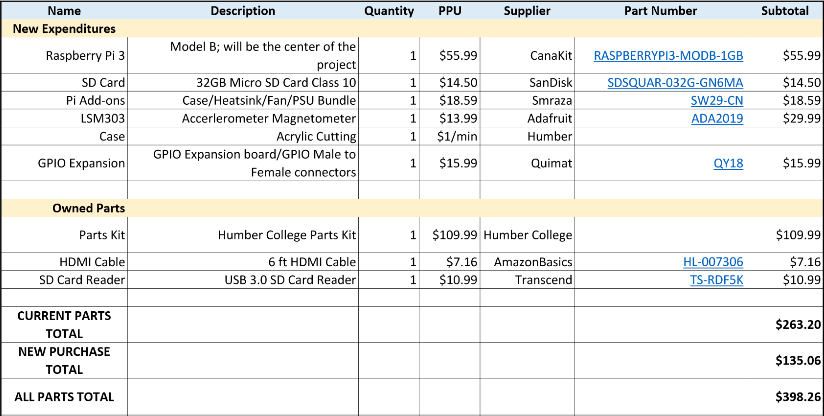
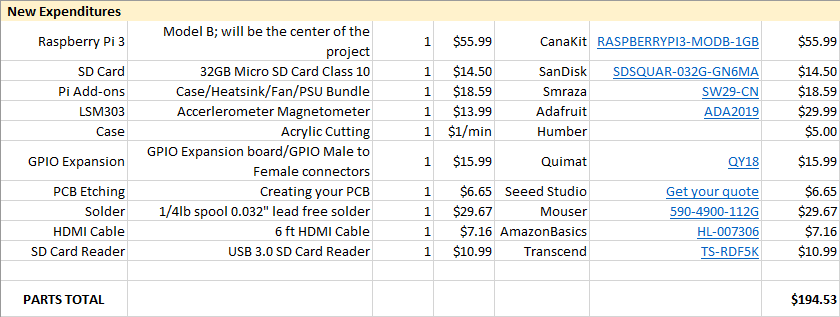
chabess

diff --git a/README.md b/README.md
@@ -34,9 +34,16 @@ which can then be used for real world applications.
 
 //system diagram to go here.
 
+Now let’s get into it!
+
 ### Bill of Materials/Budget
 
 ![](https://github.com/rfmaynard/Accel-MagnetoMeter/blob/master/images/budgetcut.png)
+
+Firstly, you will need to acquire certain parts in order to complete this
+project. Shown above is the price break down for each component you will need
+for this project. You may not need all of them listed above but I have provided
+a series
 
 ### Time
 
